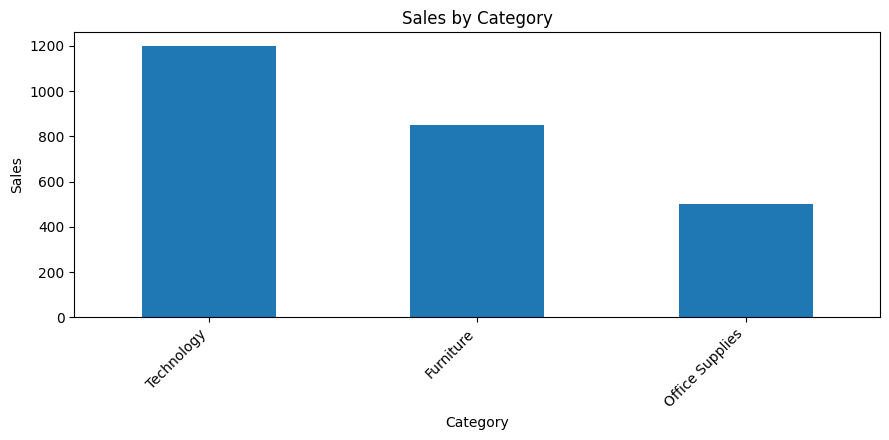
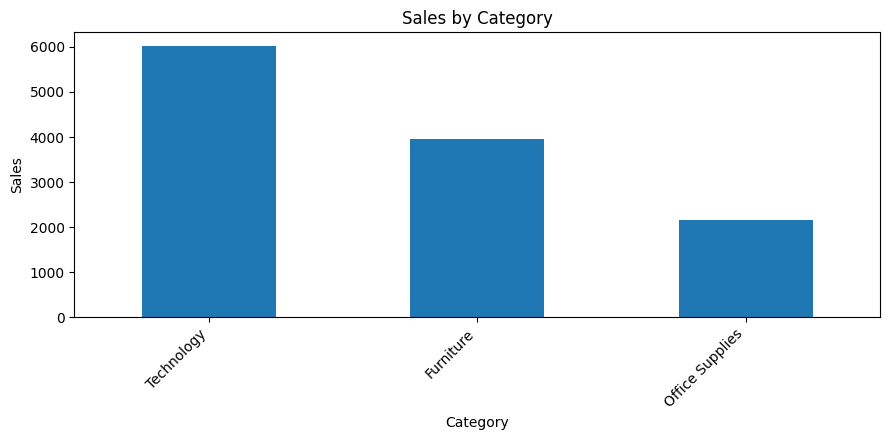
Updated project

diff --git a/templates/owner.html b/templates/owner.html
@@ -486,62 +486,28 @@
                      AI ADVISOR
                 ================================================== -->
 
-                <div class="row mt-4">
+                <div class="dashboard-card ai-card mt-4">
 
-                    <div class="col-12">
+                                <h3>🤖 SmartRetail AI Advisor</h3>
 
-                        <div class="dashboard-card ai-card">
+                                <hr>
 
-                            <div class="d-flex justify-content-between align-items-center">
+                                <div class="ai-advice">
 
-                                <div>
-
-                                    <h3>
-                                        🤖 SmartRetail AI Advisor
-                                    </h3>
-
-                                    <p class="text-secondary mb-0">
-                                        Personalized recommendations based
-                                        on your latest business performance.
-                                    </p>
+                                    <pre style="
+                                        white-space: pre-wrap;
+                                        color: white;
+                                        font-size: 15px;
+                                        font-family: inherit;
+                                    ">
+                            <div class="ai-advice">
+    {{ advice | replace('\n', '<br>') | safe }}
+</div>
+                                    </pre>
 
                                 </div>
-
-
-                                <button class="btn btn-gradient">
-
-                                    Generate Advice
-
-                                </button>
 
                             </div>
-
-
-                            <hr>
-
-
-                            <div class="row mt-4">
-
-
-                                <!-- INVENTORY -->
-
-                                <div class="col-md-4">
-
-                                    <div class="recommend-box">
-
-                                        <h5>
-                                            📈 Inventory
-                                        </h5>
-
-                                        <p>
-                                            Review high-performing categories
-                                            and maintain sufficient inventory.
-                                        </p>
-
-                                    </div>
-
-                                </div>
-
 
                                 <!-- PRICING -->
 

diff --git a/advisor.py b/advisor.py
@@ -1,0 +1,172 @@
+from groq import Groq
+from dotenv import load_dotenv
+import os
+
+
+# ============================================================
+# LOAD ENVIRONMENT VARIABLES
+# ============================================================
+
+load_dotenv()
+
+api_key = os.getenv("GROQ_API_KEY")
+
+if not api_key:
+    raise ValueError(
+        "GROQ_API_KEY not found. "
+        "Please add your API key to the .env file."
+    )
+
+
+# ============================================================
+# GROQ CLIENT
+# ============================================================
+
+client = Groq(
+    api_key=api_key
+)
+
+
+# ============================================================
+# AI BUSINESS ADVISOR
+# ============================================================
+
+def get_business_advice(prompt):
+
+    response = client.chat.completions.create(
+
+        # Groq-hosted OpenAI model
+        model="openai/gpt-oss-120b",
+
+        messages=[
+
+            {
+                "role": "system",
+
+                "content": """
+You are SmartRetail AI Advisor, an intelligent
+retail business analysis assistant.
+
+Your job is to analyze the business information
+provided by SmartRetail and give practical,
+data-driven recommendations to a retail business owner.
+
+Analyze the available information for:
+
+- Sales performance
+- Profitability
+- Order volume
+- Average order value
+- Product/category performance
+- Inventory
+- Customer behaviour
+- Business risks
+- Opportunities for growth
+
+IMPORTANT OUTPUT RULES:
+
+1. Return ONLY valid HTML.
+2. DO NOT use Markdown.
+3. DO NOT use **bold** syntax.
+4. DO NOT use Markdown tables.
+5. DO NOT use pipe characters for tables.
+6. DO NOT include <html>, <head>, or <body> tags.
+7. Use only the HTML elements specified below.
+8. Keep the response concise and practical.
+9. Never invent exact data that was not provided.
+10. If information is unavailable, clearly say that
+    the information is not available in the dataset.
+
+Use EXACTLY this structure:
+
+<h3>Business Summary</h3>
+<ul>
+<li>Important business insight based on the provided data.</li>
+<li>Important business insight based on the provided data.</li>
+<li>Important business insight based on the provided data.</li>
+</ul>
+
+<h3>Sales Recommendations</h3>
+<ul>
+<li>Practical sales recommendation.</li>
+<li>Practical sales recommendation.</li>
+<li>Practical sales recommendation.</li>
+</ul>
+
+<h3>Inventory Recommendations</h3>
+<ul>
+<li>Practical inventory recommendation.</li>
+<li>Practical inventory recommendation.</li>
+<li>Practical inventory recommendation.</li>
+</ul>
+
+<h3>Profit Improvement</h3>
+<ul>
+<li>Practical way to improve profitability.</li>
+<li>Practical way to improve profitability.</li>
+<li>Practical way to improve profitability.</li>
+</ul>
+
+<h3>Priority Actions</h3>
+<ol>
+<li>Most important action the business owner should take first.</li>
+<li>Second most important action.</li>
+<li>Third most important action.</li>
+</ol>
+
+Keep the complete response under 250 words.
+
+Make recommendations specific to the provided business
+data rather than giving generic retail advice.
+"""
+            },
+
+            {
+                "role": "user",
+                "content": prompt
+            }
+
+        ],
+
+        temperature=0.4
+
+    )
+
+    return response.choices[0].message.content
+
+
+# ============================================================
+# TEST
+# ============================================================
+
+if __name__ == "__main__":
+
+    test_prompt = """
+    Business Summary:
+
+    Total Sales: $28,660
+    Total Profit: $5,180
+    Total Orders: 20
+    Average Order Value: $1,433
+    Profit Margin: 18%
+
+    Category Performance:
+    Technology sales are the highest.
+    Furniture sales are lower than Technology.
+    Furniture profit is declining.
+
+    Provide business advice based only on this information.
+    """
+
+    advice = get_business_advice(test_prompt)
+
+    print("\n")
+    print("=" * 70)
+    print("SMARTRETAIL AI ADVISOR")
+    print("=" * 70)
+    print("\n")
+
+    print(advice)
+
+    print("\n")
+    print("=" * 70)

diff --git a/app.py b/app.py
@@ -1,5 +1,7 @@
 from flask import Flask, render_template, request
 import os
+from src.advisor_utils import generate_ai_advice
+import markdown
 
 from src.predict import predict_profit
 from src.validator import validate_dataset
@@ -34,51 +36,35 @@ def owner():
 
     filepath = "static/uploads/latest.csv"
 
-
     if os.path.exists(filepath):
 
-        # --------------------------------------------
-        # GET DATASET STATISTICS
-        # --------------------------------------------
+        stats = get_dashboard_stats(filepath)
 
-        stats = get_dashboard_stats(
-            filepath
-        )
+        charts = generate_dashboard_charts(filepath)
 
-
-        # --------------------------------------------
-        # GENERATE DYNAMIC CHARTS
-        # --------------------------------------------
-
-        charts = generate_dashboard_charts(
-            filepath
-        )
-
+        advice = generate_ai_advice(stats)
+        advice_html = markdown.markdown(advice)
 
     else:
 
         stats = {
-
             "total_sales": 0,
-
             "total_profit": 0,
-
             "total_orders": 0
-
         }
-
 
         charts = []
 
+        advice = (
+            "Upload a dataset to receive "
+            "AI business recommendations."
+        )
 
     return render_template(
-
         "owner.html",
-
         stats=stats,
-
-        charts=charts
-
+        charts=charts,
+        advice=advice_html
     )
 
 

diff --git a/src/advisor_utils.py b/src/advisor_utils.py
@@ -1,0 +1,22 @@
+from advisor import get_business_advice
+
+
+def generate_ai_advice(stats):
+
+    prompt = f"""
+    Analyze this retail business.
+
+    Total Sales: {stats['total_sales']}
+    Total Profit: {stats['total_profit']}
+    Total Orders: {stats['total_orders']}
+
+    Give:
+    - Sales recommendations
+    - Inventory recommendations
+    - Profit improvement ideas
+    - Customer insights
+
+    Keep the response concise.
+    """
+
+    return get_business_advice(prompt)

diff --git a/test.py b/test.py
@@ -1,0 +1,12 @@
+from advisor import get_business_advice
+
+prompt = """
+Product: Rice
+Current Stock: 500
+Sales Last Month: 1000
+Sales This Month: 750
+
+Give recommendations.
+"""
+
+print(get_business_advice(prompt))

diff --git a/test_env.py b/test_env.py
@@ -1,0 +1,6 @@
+from dotenv import load_dotenv
+import os
+
+load_dotenv()
+
+print(os.getenv("GROQ_API_KEY"))
